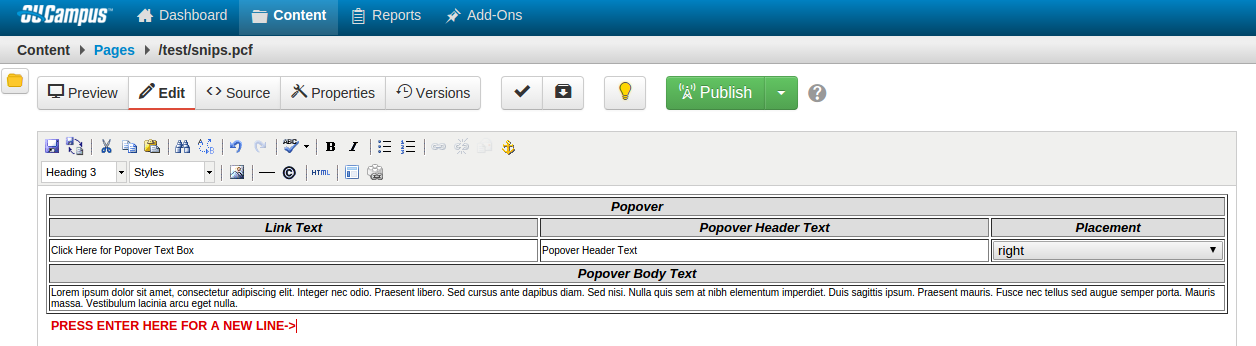
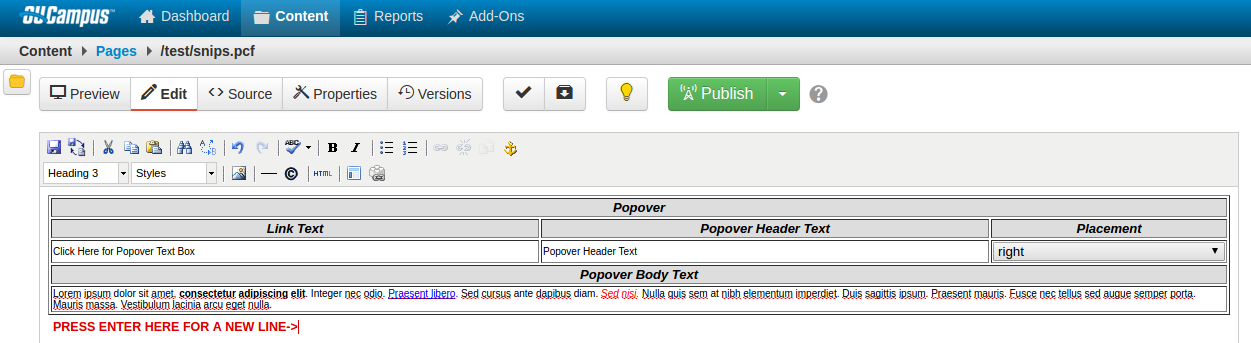
add support for html inside popovers

Changed region(s): [[0.0312, 0.379, 0.9976, 0.9621], [0.0, 0.0, 1.0, 0.3207]]

diff --git a/README.md b/README.md
@@ -7,7 +7,7 @@
 ## Published Page:  
 ![popover screenshot](https://raw.githubusercontent.com/admonkey/popover.snippet/master/popover.screenshot.png)
 
-## getting started
+## Getting Started
 * snippets are site-specific, so you will need to repeat this process for each site. 
   [more info](http://support.omniupdate.com/oucampus10/reusable-content/snippets/snippets-setup.html)
 * upload `popover.inc` to your snippets folder, this is usually in `/_resources/snippets`
@@ -24,3 +24,6 @@
 * browse to the file location where the snippet is stored
   * remember snippets must be loaded in the staging (OU Campus) server's file system for each and every site, even if you are including the xsl from a common site. I'm have no idea why it allows you to browse and select snippets from other sites, since it won't work when you try to load and actually use them - this seems like a bug in OU Campus to me, but maybe it's just a bug with our particular configuration.
 * save, and now the snippet is available in the WYSIWYG toolbar or gadget sidebar
+
+## Notes
+* hyperlinks inside OU preview mode don't seem to work for off-site URLs, however, they work just fine when published.
